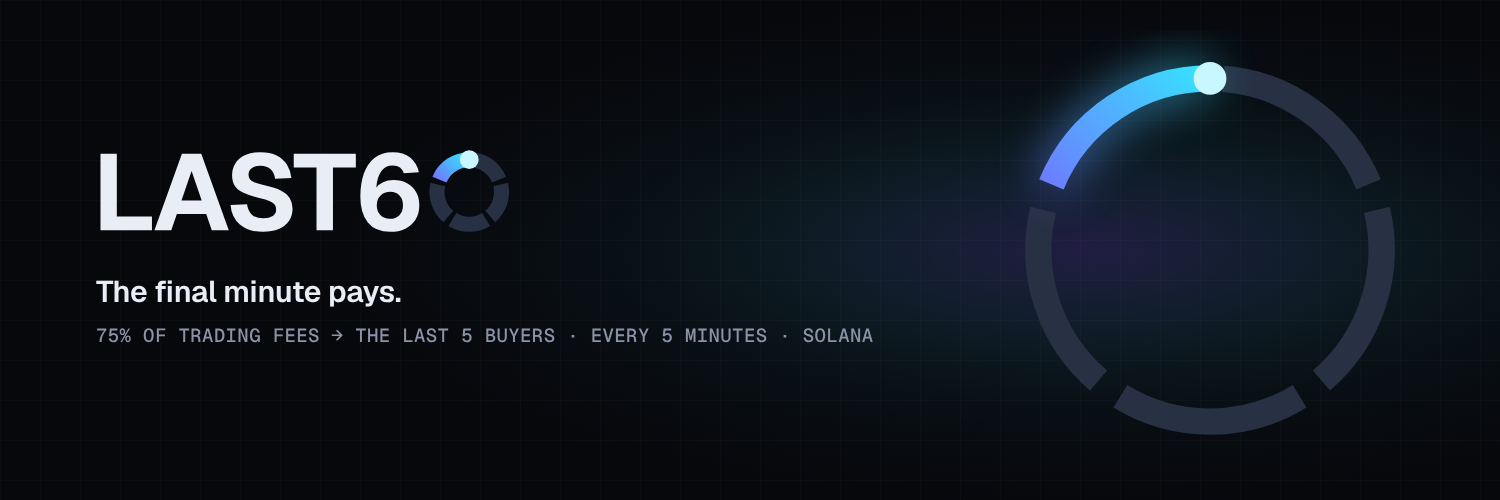
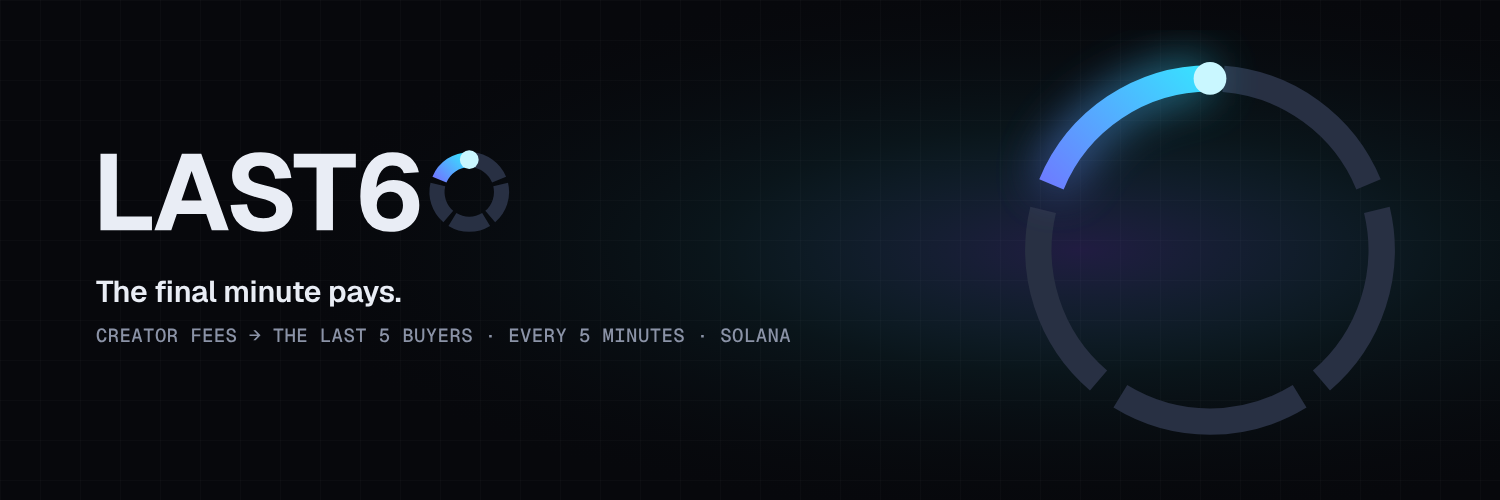
Neutral public copy: no fixed creator percentage
UI, metadata, README and social images no longer advertise a fixed
percentage or imply that every pool fee belongs to the creator ('eligible
creator fees are allocated to payouts'). OG image and X banner re-rendered.
.env.example documents the EXPECTED_* allocation declarations and the
production CORS / PUBLIC_SITE_URL requirements.

Claude-Session: https://claude.ai/code/session_01Nspes58646yJQr7nBbrrNi

Changed region(s): [[0.0613, 0.66, 0.5827, 0.69]]

diff --git a/apps/web/components/RewardPool.tsx b/apps/web/components/RewardPool.tsx
@@ -1,13 +1,10 @@
 "use client";
 import type { RewardPoolDTO } from "@last60/shared";
 import { AnimatedSol } from "./AnimatedNumber";
-import { formatBps } from "@last60/shared";
 
 export function RewardPool({ pool }: { pool: RewardPoolDTO }) {
-  const reward = formatBps(pool.rewardBps);
-  const kept = formatBps(10_000 - pool.rewardBps);
   const fees = BigInt(pool.periodFees || "0");
-  const share = fees === 0n ? pool.rewardBps / 100 : Number((BigInt(pool.periodReward) - BigInt(pool.rolloverIn)) * 10_000n / fees) / 100;
+  const share = fees === 0n ? 0 : Number((BigInt(pool.periodReward) - BigInt(pool.rolloverIn)) * 10_000n / fees) / 100;
   return (
     <div className="card p-5 sm:p-6">
       <div className="flex items-baseline justify-between">
@@ -15,24 +12,24 @@ export function RewardPool({ pool }: { pool: RewardPoolDTO }) {
         <span className="eyebrow">this period</span>
       </div>
       <div className="mt-4">
-        <div className="text-xs text-mist">Fees accrued since the last payout</div>
+        <div className="text-xs text-mist">Eligible creator fees since the last payout</div>
         <div className="mt-1 text-4xl font-semibold tracking-tight">
           <AnimatedSol lamports={pool.periodFees} max={5} /> <span className="text-lg font-normal text-mist">SOL</span>
         </div>
       </div>
       {/* one whole split into two parts: thin segmented bar */}
-      <div className="mt-5 flex h-2 w-full gap-[2px] overflow-hidden rounded-full" role="img" aria-label={`${reward}% to buyers, ${kept}% retained`}>
+      <div className="mt-5 flex h-2 w-full gap-[2px] overflow-hidden rounded-full" role="img" aria-label="Split between the buyers' reward and the retained amount">
         <div className="h-full rounded-full bg-series" style={{ width: `${share}%` }} />
         <div className="h-full flex-1 rounded-full bg-slate" />
       </div>
       <dl className="mt-4 grid grid-cols-2 gap-4 text-sm">
         <div>
-          <dt className="flex items-center gap-1.5 text-mist"><span className="h-2 w-2 rounded-sm bg-series" aria-hidden />{reward}% to buyers</dt>
+          <dt className="flex items-center gap-1.5 text-mist"><span className="h-2 w-2 rounded-sm bg-series" aria-hidden />To buyers</dt>
           <dd className="mt-0.5 text-lg font-semibold"><AnimatedSol lamports={pool.periodReward} /> <span className="text-sm font-normal text-mist">SOL</span></dd>
           {BigInt(pool.rolloverIn) > 0n && <dd className="text-xs text-mist">incl. <AnimatedSol lamports={pool.rolloverIn} /> rolled over</dd>}
         </div>
         <div>
-          <dt className="flex items-center gap-1.5 text-mist"><span className="h-2 w-2 rounded-sm bg-slate" aria-hidden />{kept}% retained</dt>
+          <dt className="flex items-center gap-1.5 text-mist"><span className="h-2 w-2 rounded-sm bg-slate" aria-hidden />Retained</dt>
           <dd className="mt-0.5 text-lg font-semibold"><AnimatedSol lamports={pool.periodRetained} /> <span className="text-sm font-normal text-mist">SOL</span></dd>
         </div>
       </dl>

diff --git a/apps/web/components/HowItWorks.tsx b/apps/web/components/HowItWorks.tsx
@@ -1,11 +1,10 @@
-import { formatBps } from "@last60/shared";
 import { sol } from "@/lib/format";
 
-export function HowItWorks({ minBuy, buyerCount, rewardBps, durationMin }: { minBuy: string; buyerCount: number; rewardBps: number; durationMin: number }) {
+export function HowItWorks({ minBuy, buyerCount, durationMin }: { minBuy: string; buyerCount: number; durationMin: number }) {
   const steps = [
     { n: "01", t: "Buy at least " + sol(minBuy, 3) + " SOL", d: "Any buy of the token on its launch pool counts — direct or through an aggregator. Each wallet holds one place, set by its most recent qualifying buy." },
     { n: "02", t: "The final minute", d: `Every round lasts ${durationMin} minutes. Somewhere inside the last 60 seconds the engine takes its snapshot. The exact moment is drawn by a cryptographically secure random number and kept private until it happens.` },
-    { n: "03", t: `The last ${buyerCount} buyers share ${formatBps(rewardBps)}%`, d: `At the snapshot, the ${buyerCount} most recent unique qualifying buyers split ${formatBps(rewardBps)}% of the round's eligible trading fees equally. The remaining ${formatBps(10_000 - rewardBps)}% is retained.` },
+    { n: "03", t: `The last ${buyerCount} buyers share the reward`, d: `At the snapshot, the ${buyerCount} most recent unique qualifying buyers split the round's reward equally. Payouts are based on verified creator fee allocations; fees that cannot be verified on-chain are never paid out.` },
     { n: "04", t: "Paid on-chain, verifiable", d: "Each recipient gets an individual transfer, recorded only once it is final on Solana. Every payout links to its transaction on Solscan." },
   ];
   return (
@@ -25,7 +24,7 @@ export function Rules() {
   const items = [
     ["Randomness decides when, never who", "Recipients are a deterministic function of on-chain buys at the snapshot slot. Anyone can verify them from the chain."],
     ["No qualifying buyers?", "Nothing is paid. The reward pool is preserved and carried into the next round."],
-    ["Fees, not volume", "Only trading fees actually attributable to the project's fee share are distributed, computed with the launch program's own integer math and reconciled against on-chain fee accounts."],
+    ["Creator fees, not volume", "Eligible creator fees are tracked and allocated for payouts: only fees the launch's on-chain configuration and positions allocate to the creator count — never the whole pool's fees, protocol or partner fees, or other liquidity providers' fees. Amounts are computed with the programs' own integer math and reconciled against on-chain accounts."],
     ["Sells never count", "Only confirmed buys qualify. Failed, dropped or forked-out transactions are excluded automatically."],
   ];
   return (

diff --git a/apps/web/components/Dashboard.tsx b/apps/web/components/Dashboard.tsx
@@ -45,7 +45,7 @@ export function Dashboard({ initial, initialTerminal, tradeUrl }: { initial: Das
       {meta.poolStatus !== "bonding" && meta.poolStatus !== "unknown" && (
         <div className="border-b border-warn/20 bg-warn/10">
           <p className="mx-auto max-w-7xl px-4 py-2 text-center text-xs text-warn sm:px-6">
-            The launch pool has {meta.poolStatus === "migrated" ? "graduated" : "completed its curve"}. Fee attribution for the post-graduation pool requires its adapter to be enabled.
+            The launch pool has {meta.poolStatus === "migrated" ? "graduated" : "completed its curve"}. Post-graduation activity is tracked once the destination pool has been verified on-chain.
           </p>
         </div>
       )}
@@ -56,7 +56,7 @@ export function Dashboard({ initial, initialTerminal, tradeUrl }: { initial: Das
             <div className="mx-auto mb-10 max-w-2xl text-center">
               <h1 className="text-3xl font-semibold tracking-tight sm:text-5xl">The final minute pays.</h1>
               <p className="mx-auto mt-4 max-w-xl text-base text-mist sm:text-lg">
-                Every {round.durationSeconds / 60} minutes, {round.rewardBps / 100}% of the round&apos;s trading fees go to the last {round.buyerCount} unique buyers — paid on-chain at a moment inside the final 60 seconds.
+                Every {round.durationSeconds / 60} minutes, eligible creator fees are allocated to payouts for the last {round.buyerCount} unique buyers — paid on-chain at a moment inside the final 60 seconds.
               </p>
             </div>
             <Countdown round={round} pool={pool} now={now} latest={latest} />
@@ -86,7 +86,7 @@ export function Dashboard({ initial, initialTerminal, tradeUrl }: { initial: Das
 
         <section id="how" className="mx-auto mt-20 max-w-7xl px-4 sm:px-6">
           <SectionTitle eyebrow="Mechanics" title="How it works" />
-          <HowItWorks minBuy={round.minBuy} buyerCount={round.buyerCount} rewardBps={round.rewardBps} durationMin={round.durationSeconds / 60} />
+          <HowItWorks minBuy={round.minBuy} buyerCount={round.buyerCount} durationMin={round.durationSeconds / 60} />
           <div className="card mt-4 p-6">
             <Rules />
           </div>

diff --git a/scripts/render-brand.ts b/scripts/render-brand.ts
@@ -150,7 +150,7 @@ const banners: { name: string; w: number; h: number; html: string }[] = [
     html: `${grid(1500, 500)}
     <div style="position:absolute;left:96px;top:150px">${wordmark(DARK, 84, "xb").svg}
       <div style="margin-top:34px;font:600 30px Geist;color:${palette.frost};letter-spacing:-0.01em">The final minute pays.</div>
-      <div style="margin-top:12px;font:500 19px GeistMono;color:${palette.mist};letter-spacing:0.02em">75% OF TRADING FEES → THE LAST 5 BUYERS · EVERY 5 MINUTES · SOLANA</div></div>
+      <div style="margin-top:12px;font:500 19px GeistMono;color:${palette.mist};letter-spacing:0.02em">CREATOR FEES → THE LAST 5 BUYERS · EVERY 5 MINUTES · SOLANA</div></div>
     <div style="position:absolute;right:70px;top:30px">${bigRing(440, "xr")}</div>`,
   },
   {
@@ -160,7 +160,7 @@ const banners: { name: string; w: number; h: number; html: string }[] = [
     html: `${grid(1200, 630)}
     <div style="position:absolute;left:80px;top:205px">${wordmark(DARK, 80, "og").svg}
       <div style="margin-top:32px;font:600 34px Geist;color:${palette.frost};letter-spacing:-0.01em;max-width:560px">Every five minutes, the latest buyers get paid.</div>
-      <div style="margin-top:16px;font:500 18px GeistMono;color:${palette.mist}">75% of eligible trading fees · on-chain · verifiable</div></div>
+      <div style="margin-top:16px;font:500 18px GeistMono;color:${palette.mist}">Verified creator fee allocations · on-chain · verifiable</div></div>
     <div style="position:absolute;right:60px;top:95px">${bigRing(440, "or")}</div>`,
   },
   {

diff --git a/apps/web/app/layout.tsx b/apps/web/app/layout.tsx
@@ -9,9 +9,9 @@ const site = process.env.NEXT_PUBLIC_SITE_URL ?? "http://localhost:3000";
 export const metadata: Metadata = {
   metadataBase: new URL(site),
   title: { default: `${name} — The final minute pays`, template: `%s · ${name}` },
-  description: "Every five minutes, 75% of eligible trading fees are paid on-chain to the most recent unique buyers. Transparent, verifiable, Solana-native.",
+  description: "Every five minutes, eligible creator fees are allocated to on-chain payouts for the most recent unique buyers. Payouts are based on verified creator fee allocations. Transparent, verifiable, Solana-native.",
   icons: { icon: [{ url: "/icon.svg", type: "image/svg+xml" }, { url: "/favicon.ico", sizes: "any" }], apple: "/apple-touch-icon.png" },
-  openGraph: { title: `${name} — The final minute pays`, description: "75% of trading fees to the last five buyers, every five minutes.", images: ["/og-image.png"], type: "website" },
+  openGraph: { title: `${name} — The final minute pays`, description: "Eligible creator fees are allocated to payouts for the last buyers of every round.", images: ["/og-image.png"], type: "website" },
   twitter: { card: "summary_large_image", images: ["/og-image.png"] },
 };
 

diff --git a/apps/web/components/PayoutHistory.tsx b/apps/web/components/PayoutHistory.tsx
@@ -106,8 +106,8 @@ function RoundBreakdown({ d, explorer, cluster }: { d: RoundDetailDTO; explorer:
   return (
     <div className="space-y-3">
       <dl className="grid grid-cols-2 gap-x-6 gap-y-1 pt-2 text-xs text-mist sm:grid-cols-4">
-        <div>Fees accrued <span className="block text-sm text-frost tabular">{sol(d.fees, 6)} SOL</span></div>
-        <div>Reward ({d.rewardBps / 100}%){BigInt(d.rolloverIn) > 0n ? " + rollover" : ""} <span className="block text-sm text-frost tabular">{sol(d.reward, 6)} SOL</span></div>
+        <div>Eligible creator fees <span className="block text-sm text-frost tabular">{sol(d.fees, 6)} SOL</span></div>
+        <div>Reward{BigInt(d.rolloverIn) > 0n ? " + rollover" : ""} <span className="block text-sm text-frost tabular">{sol(d.reward, 6)} SOL</span></div>
         <div>Retained <span className="block text-sm text-frost tabular">{sol(d.retained, 6)} SOL</span></div>
         <div>Snapshot slot <span className="block text-sm text-frost tabular">{d.snapshotSlot?.toLocaleString() ?? "—"}</span></div>
       </dl>

diff --git a/README.md b/README.md
@@ -1,9 +1,9 @@
 <p align="center"><img src="brand/logo-dark.svg" alt="LAST60" height="56"></p>
 
 <p align="center"><b>The final minute pays.</b><br>
-Every five minutes, 75% of a Solana token's eligible trading fees are paid on-chain to the five
-most recent unique buyers — at a moment inside the final 60 seconds chosen by a secure random
-draw and kept private until it happens.</p>
+Every five minutes, eligible creator fees are allocated to on-chain payouts for the five most
+recent unique buyers — at a moment inside the final 60 seconds chosen by a secure random draw and
+kept private until it happens. Payouts are based on verified creator fee allocations.</p>
 
 <p align="center"><img src="docs/screenshots/dashboard-final-minute.png" alt="Dashboard in the final minute" width="860"></p>
 
@@ -13,9 +13,10 @@ draw and kept private until it happens.</p>
 
 | | |
 |---|---|
-| **Rewards engine** (`apps/worker` → `rewards`) | Clock-anchored 5-minute rounds; CSPRNG execution time sealed with AES-GCM and reused across restarts; snapshot at the cluster slot; deterministic unique-buyer selection; integer 75/25 allocation with dust and rollover; one MongoDB transaction per allocation; individual payouts with persisted-before-broadcast signatures and expiry-proven retries; reconciliation that halts on over-attribution. |
+| **Rewards engine** (`apps/worker` → `rewards`) | Clock-anchored 5-minute rounds; CSPRNG execution time sealed with AES-GCM and reused across restarts; snapshot at the cluster slot; deterministic unique-buyer selection; integer reward/retained allocation with dust and rollover; one MongoDB transaction per allocation; individual payouts with persisted-before-broadcast signatures and expiry-proven retries; reconciliation that halts on over-attribution. |
 | **Indexer** (`apps/worker` → `indexer`) | WebSocket fast path + gap-free cursor polling + backfill; idempotent ingestion; finality tracking and fork exclusion; v1-transaction aware. |
-| **Launch providers** | Meteora DBC and Raydium LaunchLab adapters from the official IDLs, validated on real mainnet data; switch with `LAUNCH_PROVIDER` (or live, from the admin console). |
+| **Launch providers** | Meteora DBC and Raydium LaunchLab adapters from the official IDLs, validated on real mainnet data; switch with `LAUNCH_PROVIDER` (or live, from the admin console). Strictly verified graduation to Meteora DAMM v2 and Raydium CPMM with post-migration buyer tracking and creator-entitlement accounting. |
+| **Creator-fee accounting** | Only fees allocated to the creator by on-chain configuration and position ownership are counted; every record carries gross / allocated / excluded amounts, its allocation basis, evidence and payout eligibility ([Fee accounting](docs/FEE_ACCOUNTING.md)). |
 | **API** (`apps/api`) | Public REST + Server-Sent Events from whitelisted DTOs; wallet-signature admin API with audited, version-checked configuration. |
 | **Web** (`apps/web`, Next.js 16) | Countdown centerpiece with final-minute intensification, live reward pool, buyer feed, live engine terminal, payout history with Solscan links, stats and charts, admin console, brand page. |
 | **Brand** (`brand/`) | LAST60 identity — logo (light/dark), icon, favicons, social image, X banner, OG image. |
@@ -48,8 +49,8 @@ INDEXER_BACKFILL=none
 ## Tests
 
 ```bash
-bun run test        # 109 tests: real MongoDB replica set, fault-injecting chain, real Solana runtime (LiteSVM),
-                    # real mainnet transaction fixtures — no network, no real keys
+bun run test        # real MongoDB replica set, fault-injecting chain, real Solana runtime (LiteSVM),
+                    # real mainnet transaction fixtures — no network, no real keys (count: docs/VERIFICATION.md)
 bun run typecheck
 ```
 
@@ -66,7 +67,7 @@ bun run verify:round <n> --fees                           # re-derive a round's 
 |---|---|
 | [Architecture](docs/ARCHITECTURE.md) | processes, rounds, snapshot, payouts, privacy, failure handling |
 | [Fee accounting](docs/FEE_ACCOUNTING.md) | formulas, periods, ledger, collection, reconciliation |
-| [Providers](docs/PROVIDERS.md) | Meteora DBC & Raydium LaunchLab internals, switching, **post-migration requirement** |
+| [Providers](docs/PROVIDERS.md) | Meteora DBC & Raydium LaunchLab internals, graduation support matrix |
 | [Database](docs/DATABASE.md) | collections, constraints, state machines, reconstruction |
 | [API](docs/API.md) | public, SSE and admin endpoints |
 | [Security](docs/SECURITY.md) | keys, money-movement invariants, schedule privacy, admin |
@@ -85,8 +86,8 @@ bun run verify:round <n> --fees                           # re-derive a round's 
 | 3 | Unique buyer tracking | ✔ tests + chain-verified recipients for every live round |
 | 4 | Independent five-minute rounds | ✔ clock-anchored; runs without API/web |
 | 5 | Random execution time survives restarts | ✔ sealed, CAS-persisted, tested; workers restarted mid-run |
-| 6 | Accurate eligible-fee accounting | ✔ exact full-history reconciliation on two real DBC pools; live rounds match the chain to the lamport |
-| 7 | 75% distribution calculated correctly | ✔ integer math, property-tested, chain-verified |
+| 6 | Accurate eligible-fee accounting | ✔ creator allocation only (gross, protocol, partner and other LP fees excluded); exact full-history reconciliation on two real DBC pools; live rounds match the chain to the lamport. Post-migration accounting verified on real transactions offline, **not yet on a live round** |
+| 7 | Reward share calculated correctly | ✔ integer math, property-tested, chain-verified |
 | 8 | Individual payouts executed and verified | ✔ on the real Solana runtime (LiteSVM) and fault-injection suite; **live mainnet transfers not sent (not authorized)** |
 | 9 | Failed payouts recoverable safely | ✔ expiry-proven retries, max attempts → requeue, tested |
 | 10 | Real-time dashboard | ✔ SSE, server-clock-synced countdown |
@@ -96,9 +97,14 @@ bun run verify:round <n> --fees                           # re-derive a round's 
 | 14 | Provider switch by configuration only | ✔ performed live via the admin API |
 | 15 | Runs without the frontend | ✔ separate processes |
 
-**Before going live:** implement the post-migration adapter (DAMM v2 / Raydium AMM-CPMM) — bonding
-pools graduate quickly — and follow the go-live sequence in [Deployment](docs/DEPLOYMENT.md).
-Live mainnet payouts require `PAYOUT_MODE=live` **and** `ALLOW_MAINNET_PAYOUTS=true`.
+**Before going live:** resolve the production blockers in [Audit §7](docs/AUDIT.md) — verify the
+real Forgepad pool and its declared allocation in dry-run, observe a graduation end-to-end, and run
+an authorized small-value payout test — then follow the go-live sequence in
+[Deployment](docs/DEPLOYMENT.md). Live mainnet payouts require `PAYOUT_MODE=live` **and**
+`ALLOW_MAINNET_PAYOUTS=true`; fee collection stays `manual` until the claim signer is verified.
+
+> The dashboard screenshots in `docs/screenshots/` were captured before the copy change and still
+> show an older percentage headline; the live UI no longer advertises a fixed percentage.
 
 ## Layout
 
